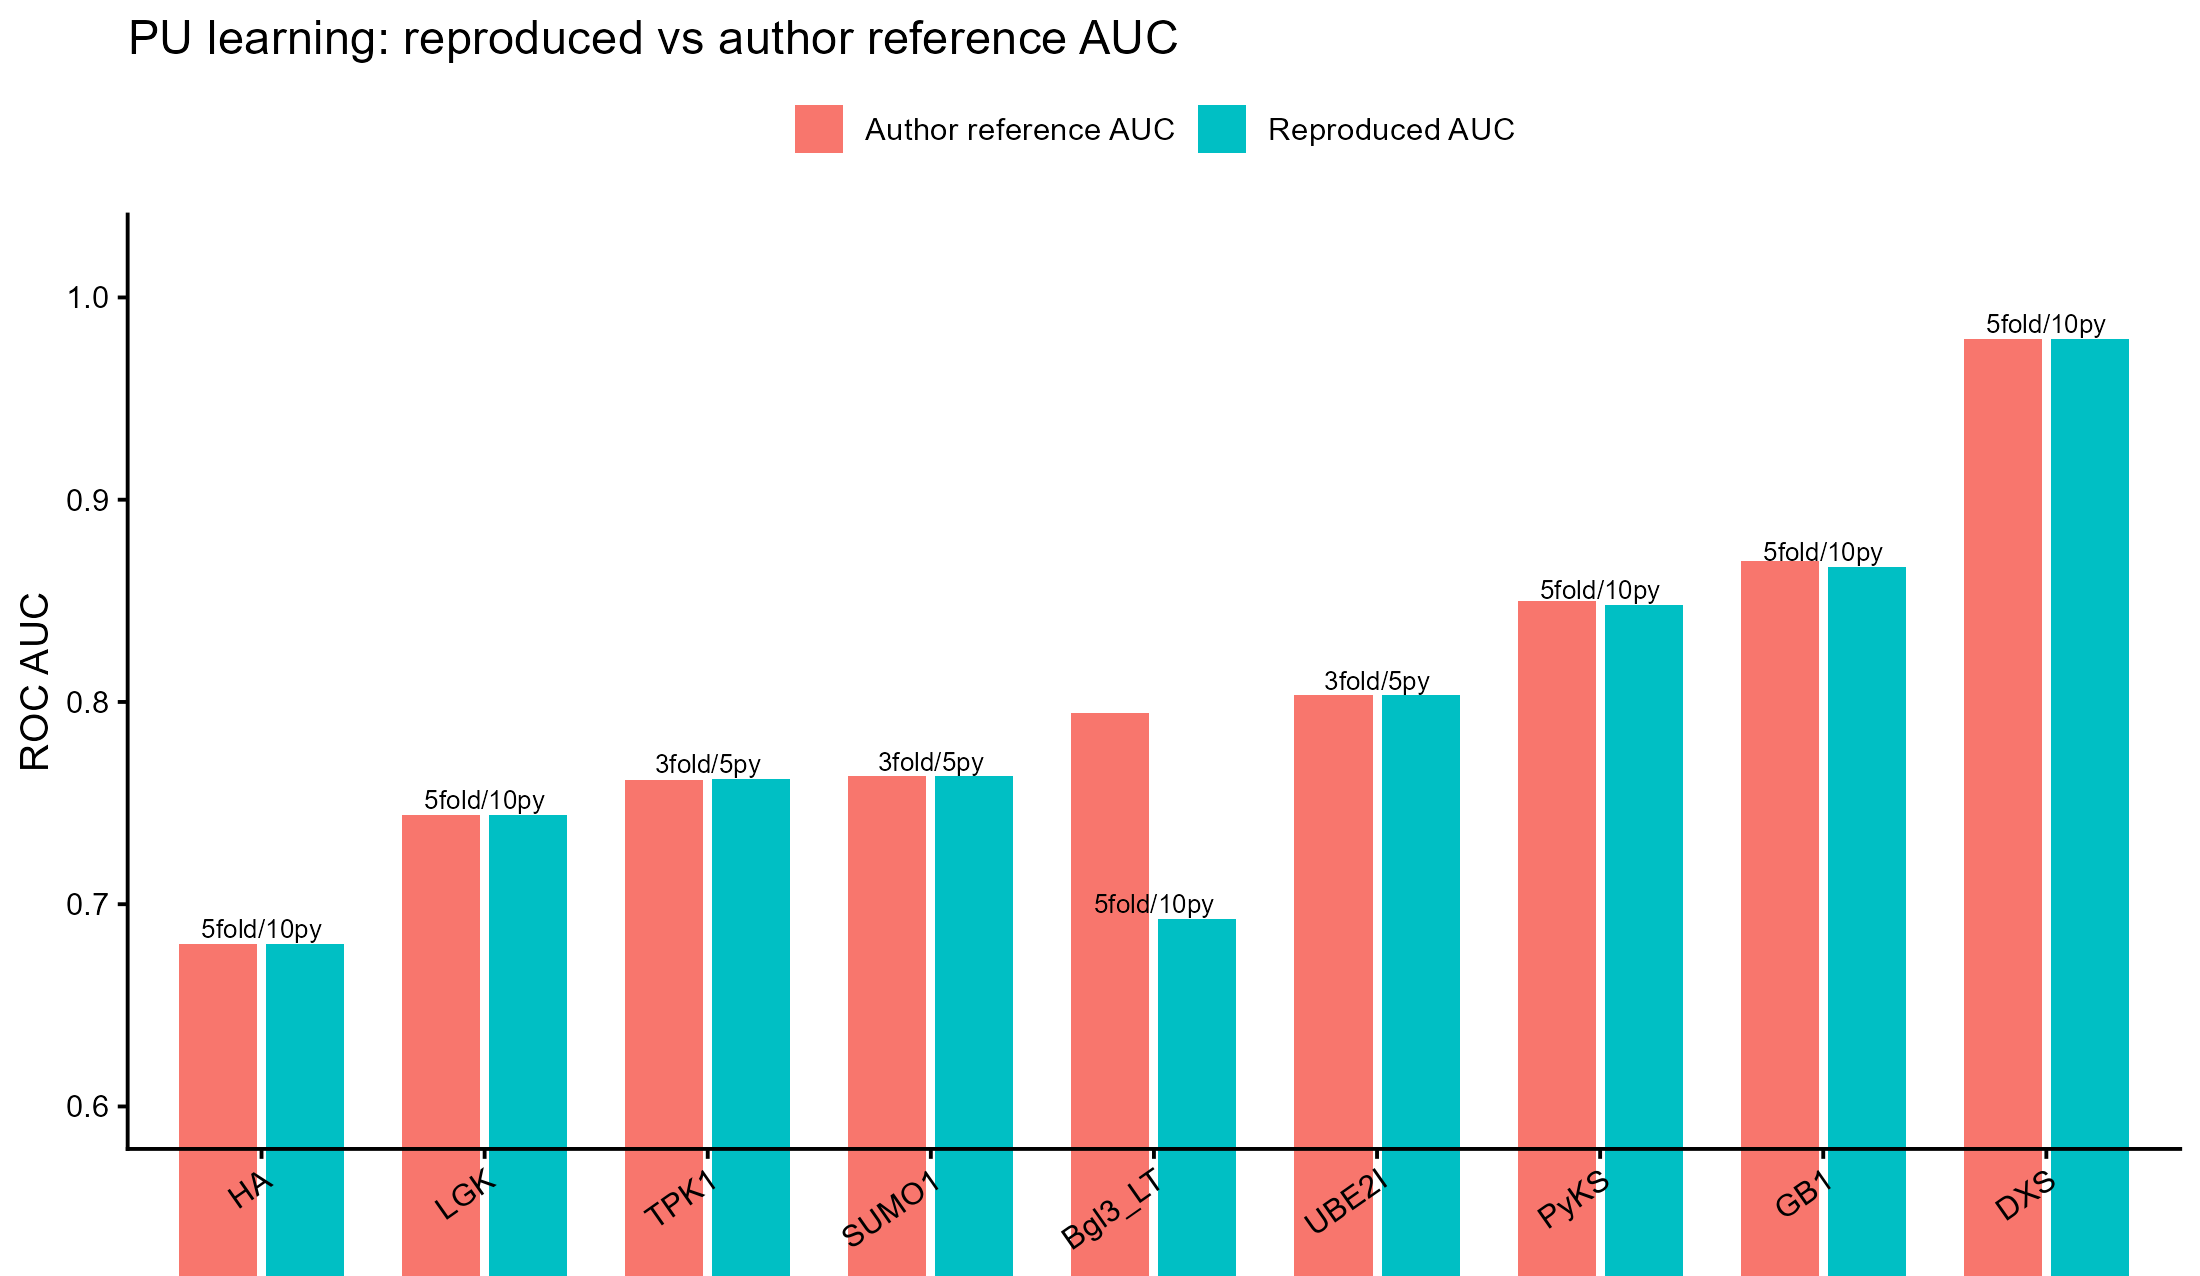
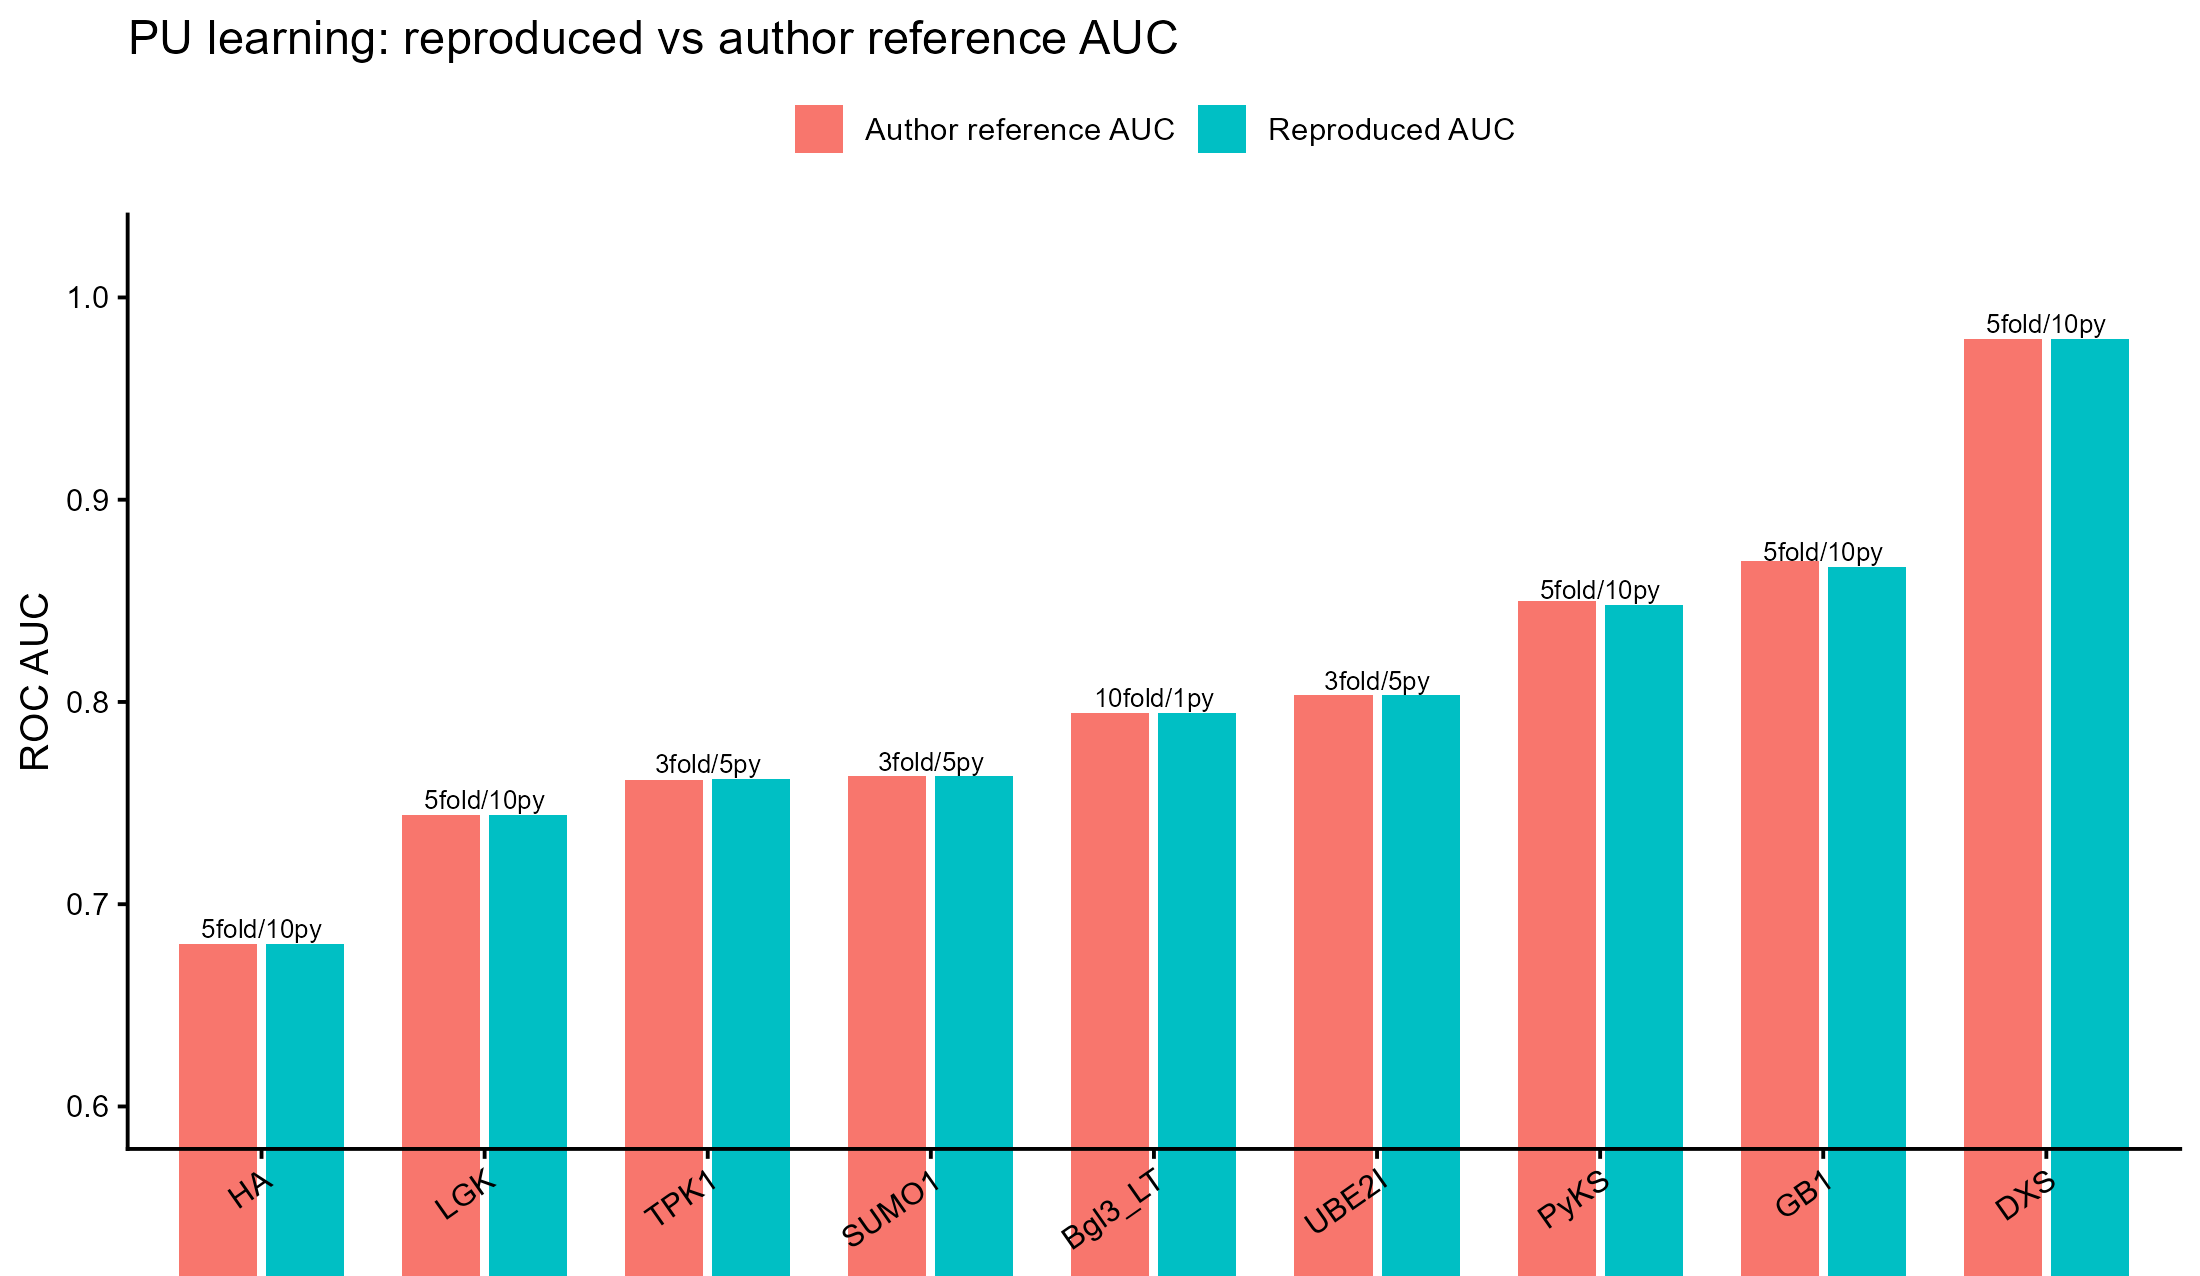
match Bgl3 reproduction to author protocol

Changed region(s): [[0.4945, 0.5502, 0.5873, 0.7335], [0.4945, 0.5196, 0.5255, 0.5502]]

diff --git a/reproduction/README.md b/reproduction/README.md
@@ -21,6 +21,6 @@ Song et al., *Inferring protein sequence-function relationships with large-scale
 
 ## 当前边界
 
-当前已经覆盖作者分析仓库中的十个数据集：DXS、GB1、PyKS、UBE2I、Bgl3_LT、SUMO1、TPK1、LGK、HA，以及单独的 rocker 示例。DXS、LGK、HA、PyKS、GB1 和 Bgl3_LT 已完成 5×10 设置；SUMO1、TPK1、UBE2I 保留 3×5 预检结果。GB1 在高设置下接近作者参考 AUC，Bgl3_LT 在高设置下仍明显偏低，后者需要单独排查数据或实现差异。
+当前已经覆盖作者分析仓库中的十个数据集：DXS、GB1、PyKS、UBE2I、Bgl3_LT、SUMO1、TPK1、LGK、HA，以及单独的 rocker 示例。DXS、LGK、HA、PyKS、GB1 和 Bgl3_LT 已完成 5×10 设置；SUMO1、TPK1、UBE2I 保留 3×5 预检结果。GB1 在高设置下接近作者参考 AUC。Bgl3_LT 的通用自动选参结果曾明显偏低，但按作者专用脚本固定 `py1=0.35`、10 折、1 个超参数严格重跑后，AUC 与作者参考值完全一致；因此此前偏差已定位为协议不一致，而不是当前实现链路无法复现。
 
 enrichment baseline 已在 DXS 和 LGK 上按作者的 10 次重复、10 折设置完成。作者仓库的原始 `res_comp.Rdata` 受 Git LFS 服务不可用影响，不能直接读取；本地结果因此区分“作者提交的 CSV 汇总”和“本地重新运行的结果”。
